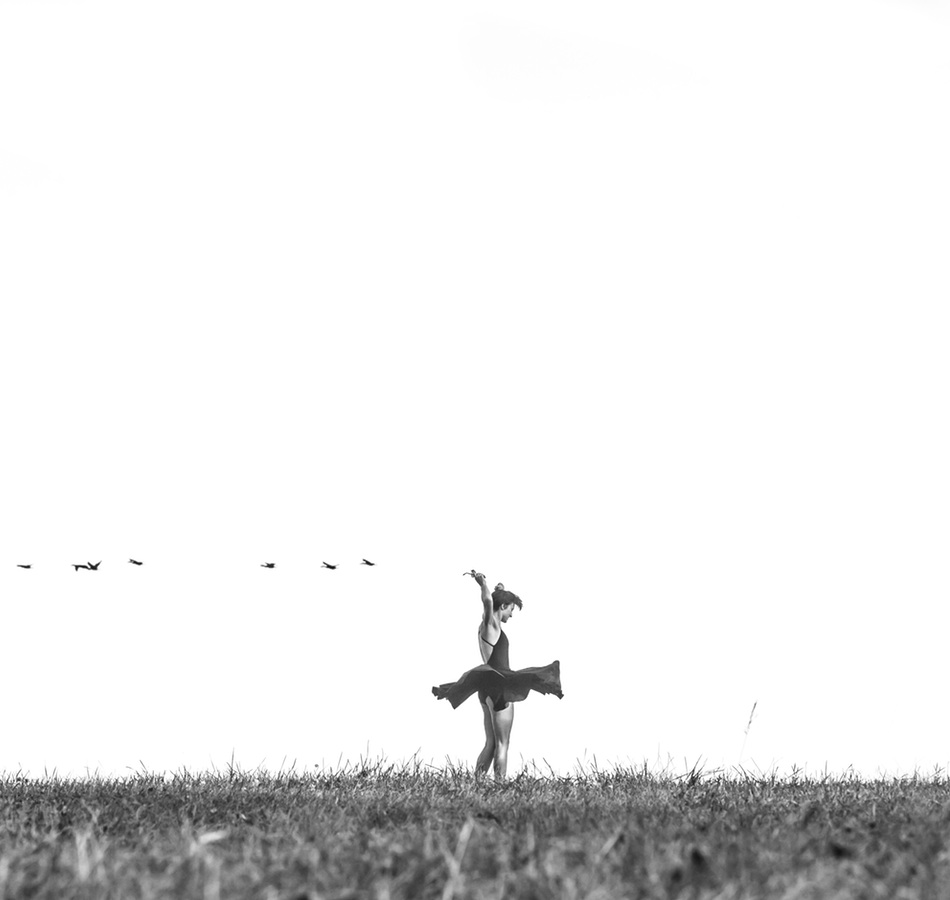
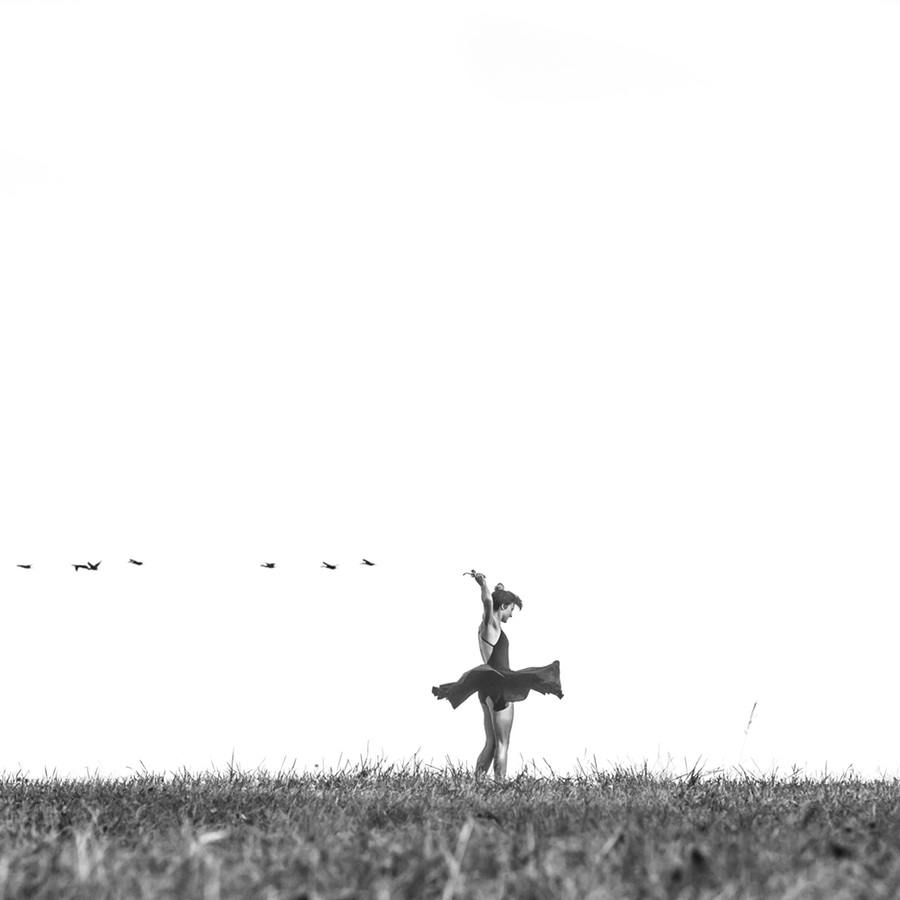
caption bxslider

diff --git a/index.php b/index.php
@@ -19,10 +19,10 @@
 		if ( has_post_thumbnail( $post->ID) ) : //Test pour voir s'il y a une img de base
 	?>
 	<?php // Si oui ?>
-		<li><img src="<?php $src = wp_get_attachment_image_src( get_post_thumbnail_id($post->ID), array( 720,405 ), false, '' ); echo $src[0];?>"/></li>
+		<li><img src="<?php $src = wp_get_attachment_image_src( get_post_thumbnail_id($post->ID), array( 500,500 ), true, '' ); echo $src[0];?>" title="<?php the_title(); ?>"/></li>
 
 	<?php else : //Si non?>
-		<?php echo '<img src="' . get_template_directory_uri (). '/images/photo_no_available_dance.jpg" />'; ?>
+		<li><img src="http://localhost/wordpressthemeoce/wp-content/themes/dance/images/photo_no_available_dance.jpg" title="<?php the_title(); ?>"/></li>
 
 	<?php endif; ?>
 	<?php endwhile;?>

diff --git a/admin/link_blog_admin.php b/admin/link_blog_admin.php
@@ -1,5 +1,11 @@
 <?php 
 
+/*===================================================================
+ x                                                                  x
+ x                     Rajout des liens du blog                     x
+ x                                                                  x
+===================================================================*/
+
 add_action('admin_init', 'my_general_section');  
 function my_general_section() {  
     add_settings_section(  

diff --git a/lib/init.php b/lib/init.php
@@ -9,6 +9,8 @@ function dance_setup() {
 
 	add_theme_support ( 'custom-header' );
 	add_theme_support ( 'post-thumbnails' );
+
+	add_image_size ( 'bxFormat', 500, 500, true );
 }
 endif;
 add_action ( 'after_setup_theme', 'dance_setup' );
